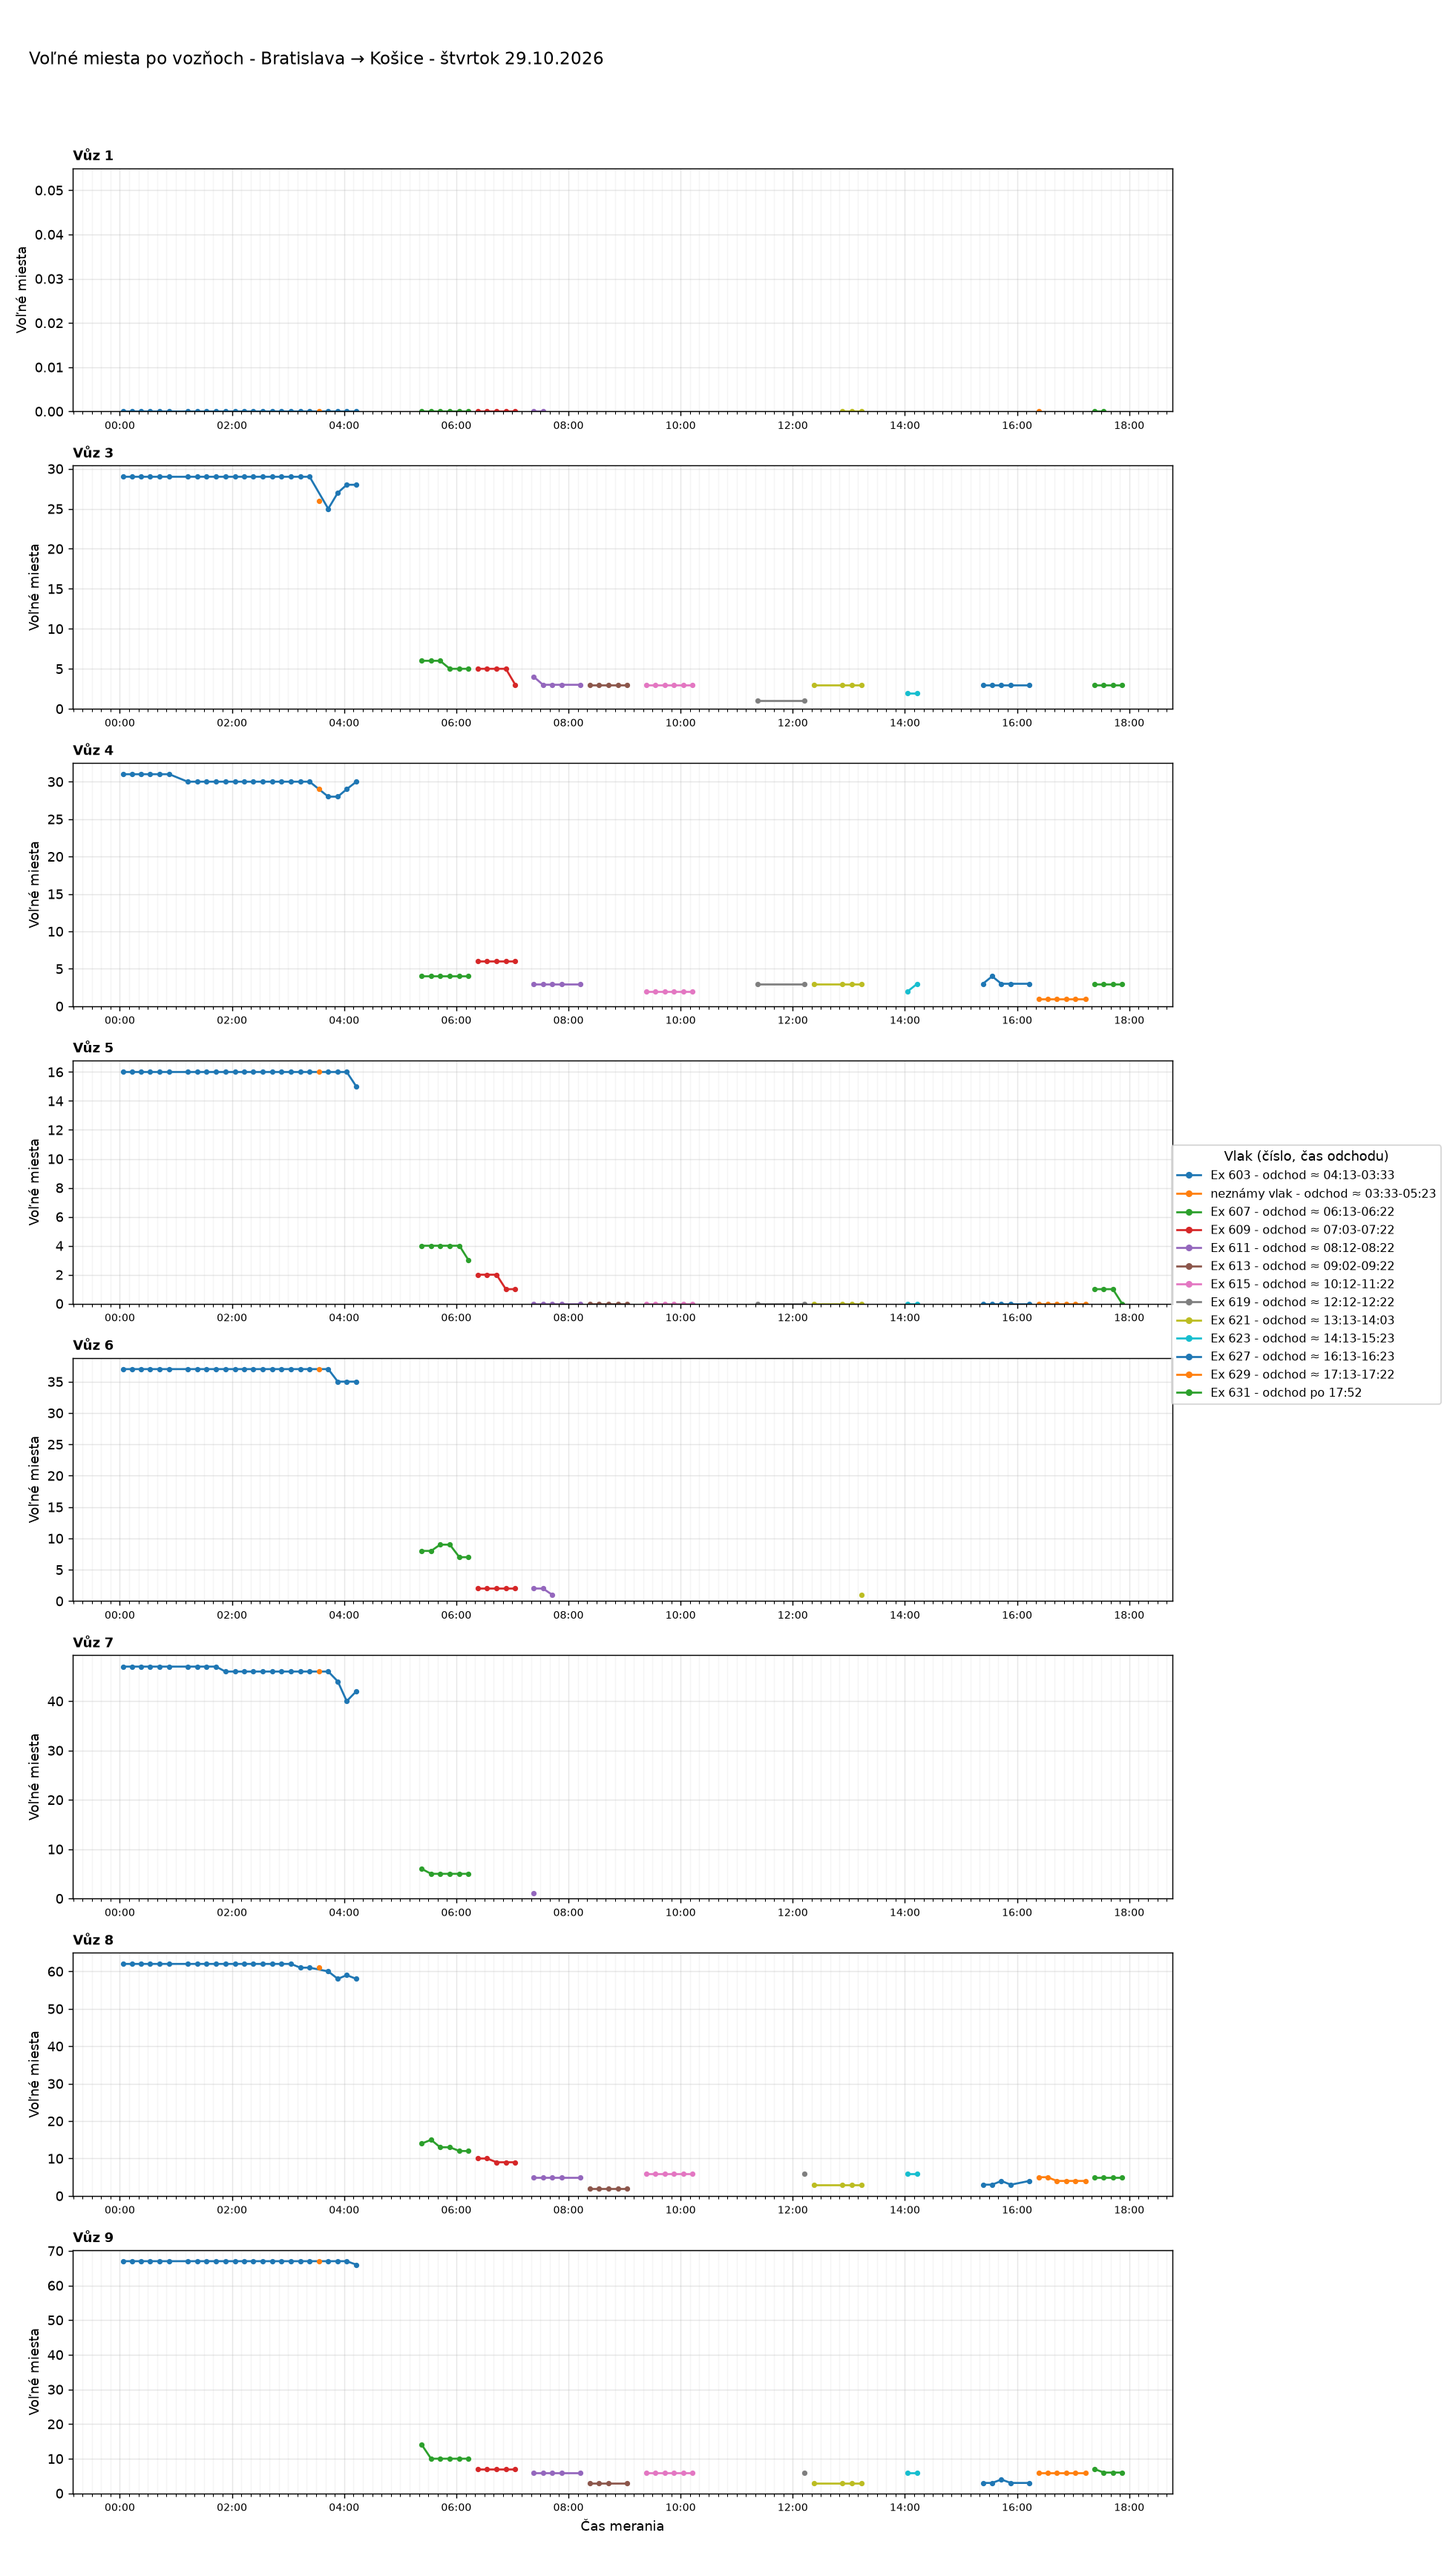
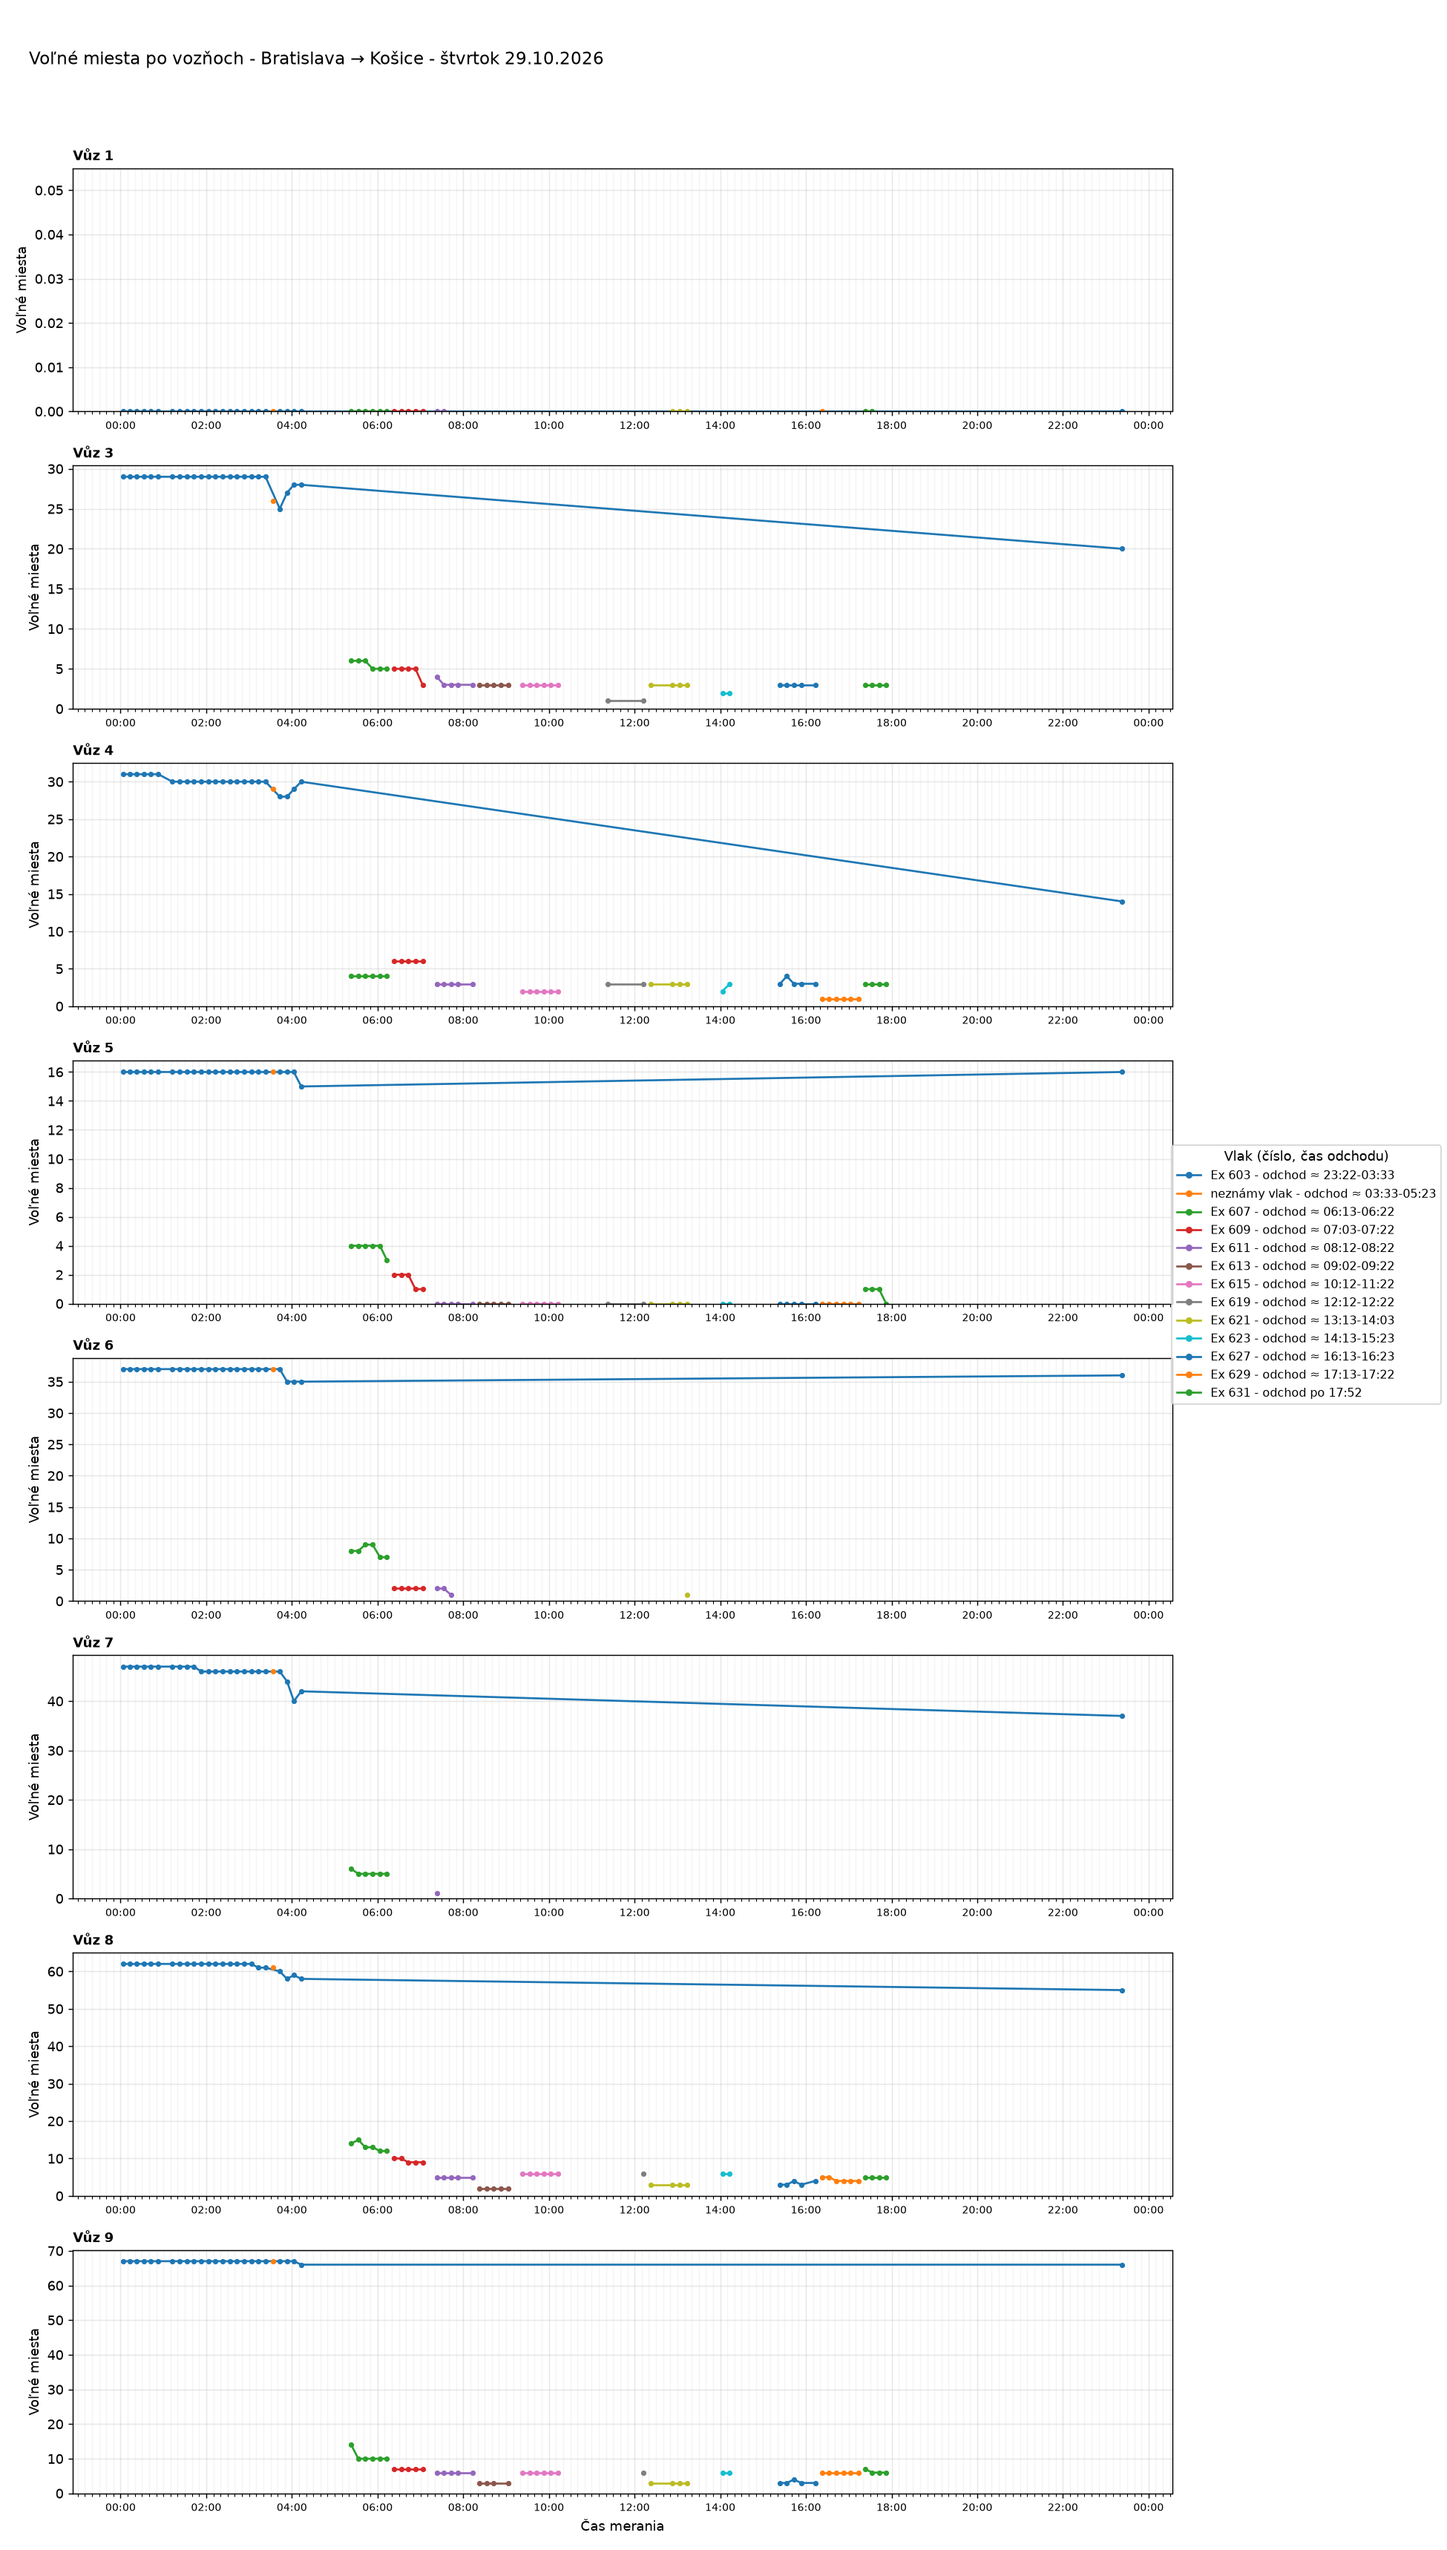
Aktualizácia grafov 2026-10-29 23:27

diff --git a/index.html b/index.html
@@ -37,7 +37,7 @@ details.trasa>summary{cursor:pointer;font-weight:600;font-size:1.1rem;padding:8p
 <body>
 <main>
 <h1>Voľné miesta vo vlakoch</h1>
-<p class="muted">Posledné meranie: 29.10.2026 21:02 ·
+<p class="muted">Posledné meranie: 29.10.2026 23:22 ·
 <a href="data/obsadenost_data.csv">stiahnuť dáta (CSV)</a></p>
 <nav class="nav"><a href="#suhrn">Súhrn</a><a href="#statistiky">Štatistiky</a><a href="#historia">História grafov</a></nav>
 
@@ -48,7 +48,7 @@ details.trasa>summary{cursor:pointer;font-weight:600;font-size:1.1rem;padding:8p
 <tbody>
 <tr><td><a href="#dBA-VR-2026-10-29">štvrtok 29.10.2026</a></td><td>Bratislava → Vrútky</td><td>83</td><td>14</td><td>00:01-19:41</td></tr>
 <tr><td><a href="#dVR-BA-2026-10-29">štvrtok 29.10.2026</a></td><td>Vrútky → Bratislava</td><td>75</td><td>15</td><td>02:42-21:02</td></tr>
-<tr><td><a href="#dBA-KE-2026-10-29">štvrtok 29.10.2026</a></td><td>Bratislava → Košice</td><td>75</td><td>13</td><td>00:03-17:52</td></tr>
+<tr><td><a href="#dBA-KE-2026-10-29">štvrtok 29.10.2026</a></td><td>Bratislava → Košice</td><td>76</td><td>13</td><td>00:03-23:22</td></tr>
 <tr><td><a href="#dKE-BA-2026-10-29">štvrtok 29.10.2026</a></td><td>Košice → Bratislava</td><td>63</td><td>14</td><td>00:04-17:43</td></tr>
 <tr><td><a href="#dBA-VR-2026-10-28">streda 28.10.2026</a></td><td>Bratislava → Vrútky</td><td>148</td><td>16</td><td>00:03-23:51</td></tr>
 <tr><td><a href="#dVR-BA-2026-10-28">streda 28.10.2026</a></td><td>Vrútky → Bratislava</td><td>65</td><td>13</td><td>08:02-20:22</td></tr>
